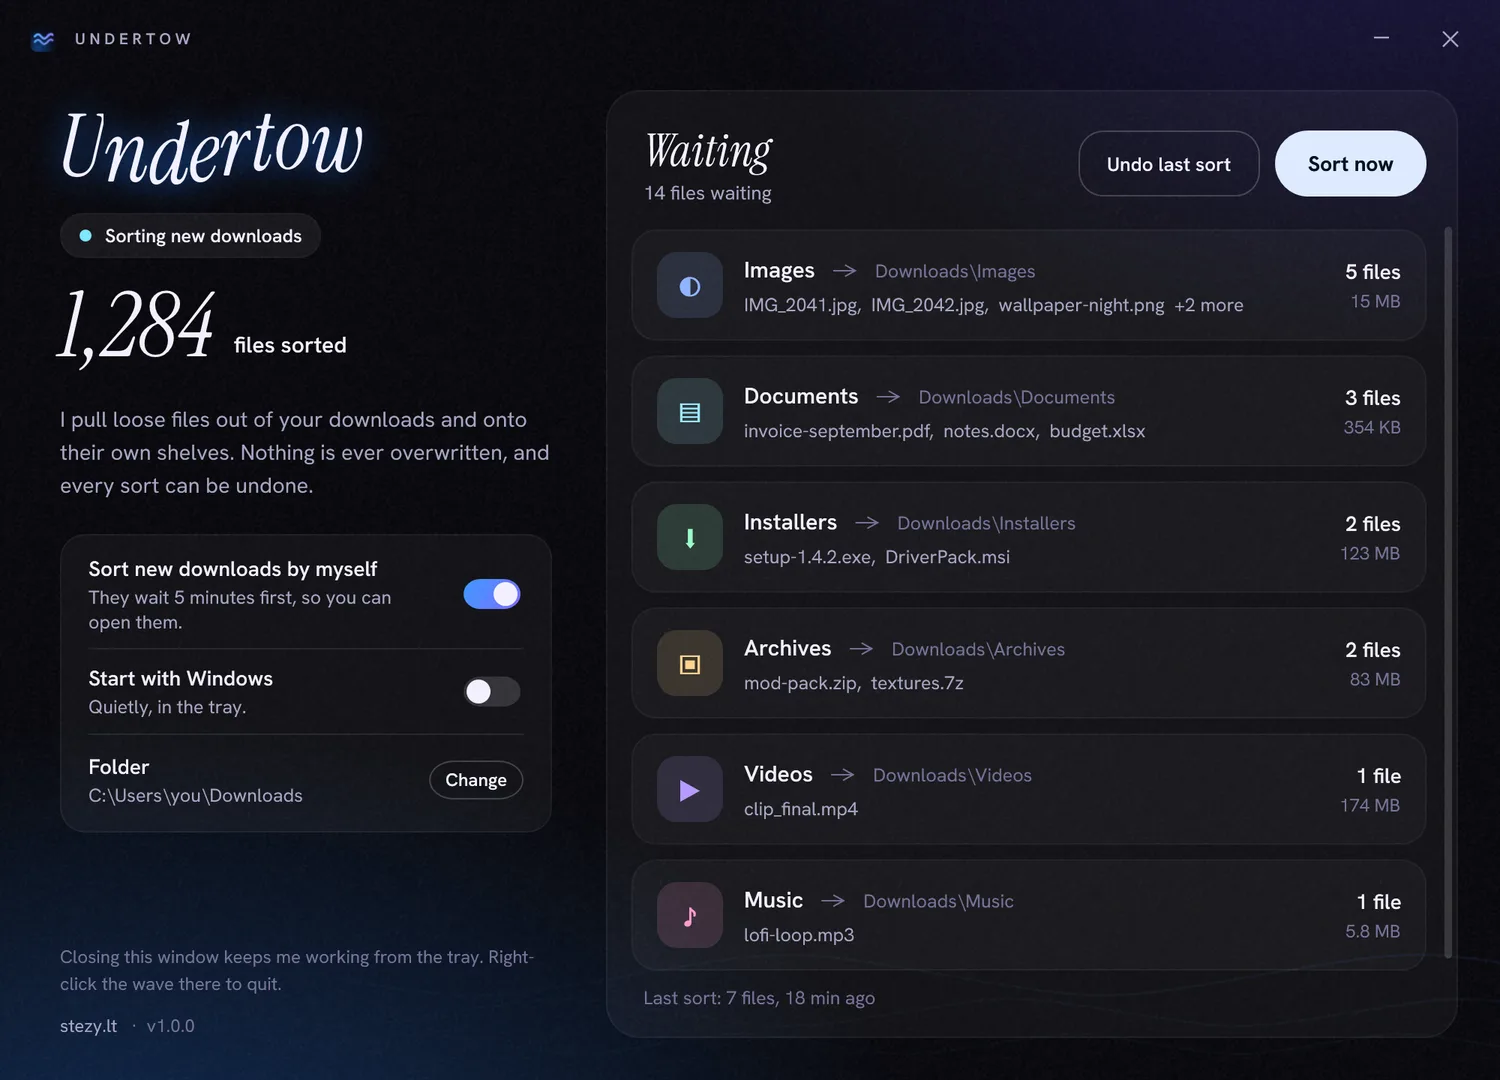
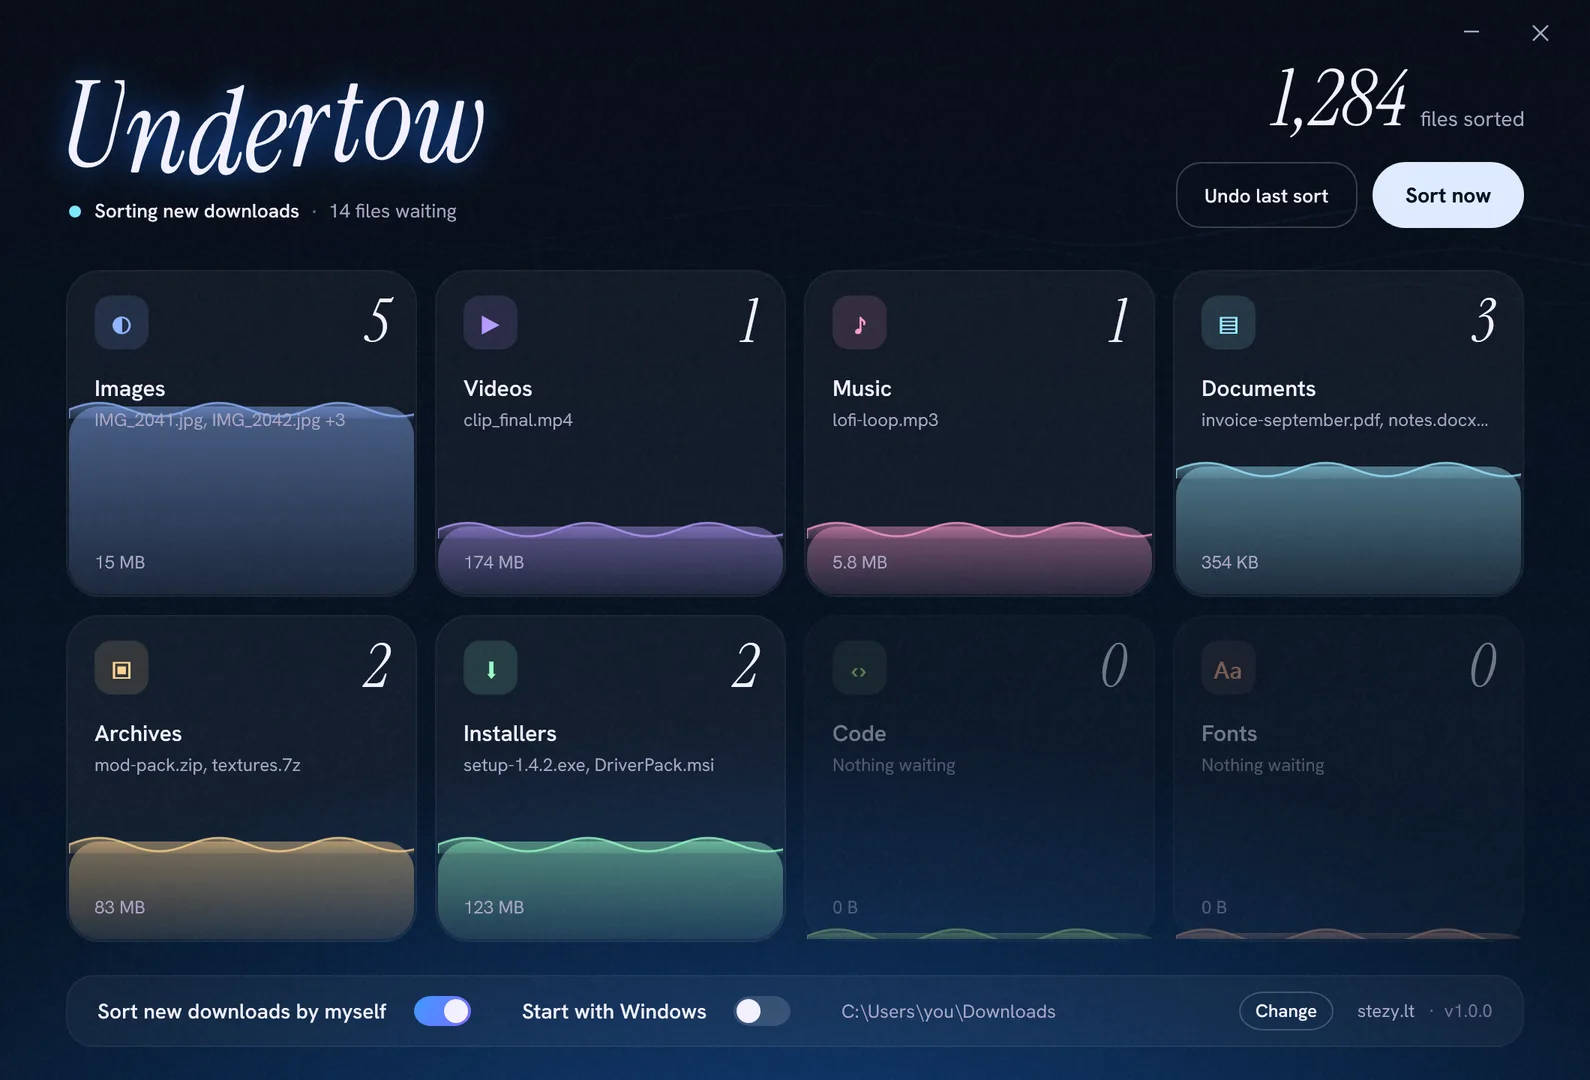
Add Veil; Undertow gets its tide-pool look

diff --git a/prototype/index.html b/prototype/index.html
@@ -30,6 +30,7 @@
 <link href="https://fonts.googleapis.com/css2?family=Pinyon+Script&text=LinkFuse&display=swap" rel="stylesheet">
 <link href="https://fonts.googleapis.com/css2?family=Syne:wght@800&text=Poltergeist&display=swap" rel="stylesheet">
 <link href="https://fonts.googleapis.com/css2?family=Instrument+Serif:ital@1&text=Undertow&display=swap" rel="stylesheet">
+<link href="https://fonts.googleapis.com/css2?family=Italiana&text=VEILVeil&display=swap" rel="stylesheet">
 <link rel="stylesheet" href="https://unpkg.com/@phosphor-icons/web@2.1.1/src/regular/style.css">
 <script src="https://unpkg.com/lenis@1.1.13/dist/lenis.min.js"></script>
 <script>
@@ -546,6 +547,22 @@
   }
   @keyframes swell { from { translate: 0 -0.025em; } to { translate: 0 0.035em; } }
 
+  /* Veil: thin, widely spaced capitals behind frosted glass */
+  .scene-veil { color: #EEEAFF; align-items: flex-end; text-align: right; --accent: #DCD2FF; }
+  .t-veil {
+    font-family: 'Italiana', serif; font-size: clamp(90px, 13vw, 250px); line-height: 1; letter-spacing: 0.2em; text-transform: uppercase; margin-right: clamp(210px, 19vw, 320px);
+    text-shadow: 0 0 0.25em rgba(190, 170, 255, 0.45);
+  }
+  /* Unveil: each letter starts frosted and out of focus, then the veil slides off it */
+  .scene.is-active .enter-unveil .ch {
+    animation: unveil 1.5s var(--ease-out) calc(0.15s + var(--i) * 160ms) both;
+  }
+  @keyframes unveil {
+    from { opacity: 0; filter: blur(0.12em); transform: translateY(-0.14em) scale(1.08); }
+    30% { opacity: 0.6; }
+    to { opacity: 1; filter: none; transform: none; }
+  }
+
   /* Static: glitch and TV noise */
   .scene-static { color: #F5F5FF; --accent: #FF7CBE; }
   @keyframes tear { 0%, 84%, 100% { opacity: 0; transform: translateY(20vh); } 86% { opacity: 0.8; transform: translateY(44vh) translateX(-2vw); } 89% { opacity: 0.6; transform: translateY(62vh) translateX(1.5vw); } 91% { opacity: 0; } }
@@ -605,6 +622,9 @@
   .cv-chrome { background: radial-gradient(38% 30% at 18% 74%, rgba(150,170,235,.38), transparent 70%), radial-gradient(30% 40% at 84% 18%, rgba(200,205,255,.2), transparent 70%), #08080D; color: #DCE3F2; }
   .cv-chrome .small { color: rgba(220,227,242,.6); }
   .art-chrome { font-family: 'Pinyon Script', cursive; font-size: 23cqi; line-height: 1.35; background: linear-gradient(180deg, #FFFFFF 0%, #DCE4F4 30%, #6B7894 50%, #EEF3FC 60%, #9AA6C0 82%, #F4F7FF 100%); -webkit-background-clip: text; background-clip: text; color: transparent; filter: drop-shadow(0 0.5cqi 1.2cqi rgba(0,0,0,.75)); }
+  .cv-veil { background: radial-gradient(60% 50% at 50% 60%, rgba(90,80,220,.4), transparent 70%), radial-gradient(45% 40% at 90% 5%, rgba(200,110,210,.3), transparent 70%), #0A0910; color: #EEEAFF; }
+  .cv-veil .small { color: rgba(238,234,255,.6); }
+  .art-veil { font-family: 'Italiana', serif; text-transform: uppercase; font-size: 18cqi; line-height: 1; letter-spacing: 0.18em; margin-right: -0.18em; text-shadow: 0 0 4cqi rgba(190,170,255,.5); }
   .cv-tide { background: radial-gradient(70% 40% at 30% 100%, rgba(30,111,217,.55), transparent 70%), radial-gradient(50% 40% at 90% 0%, rgba(75,59,196,.4), transparent 70%), #04101C; color: #E6F3FF; }
   .cv-tide .small { color: rgba(230,243,255,.6); }
   .art-tide { font-family: 'Instrument Serif', serif; font-style: italic; font-size: 21cqi; line-height: 1; background: linear-gradient(180deg, #fff 10%, #BFE3FF 46%, #3E8FE0 100%); -webkit-background-clip: text; background-clip: text; color: transparent; }
@@ -714,6 +734,8 @@
     .t-ink { font-size: 22vw; }
     .t-melt { font-size: 18vw; }
     .t-float { font-size: 12.5vw; }
+    .t-veil { margin-right: 0; font-size: 17vw; }
+    .t-tide { font-size: 22vw; }
     .t-glitch { font-size: 15vw; }
     .t-halo { font-size: 30vw; }
     .tagline { top: calc(46% + 16.5vw * 0.42 + 24px); }
@@ -856,7 +878,18 @@
       version: '0.6.0', size: '75 MB', updated: '15 Sep 2026', web: false
     },
     {
[2 lines of base64/hex data omitted]
+      title: 't-veil', layout: 'at-right', page: '#0A0910', accent: '#DCD2FF',
+      font: "'Italiana', serif", titleCss: 'letter-spacing:0.2em;',
+      blurb: 'Ctrl + Alt + V drops a calm curtain over every screen. Press it again to lift it.',
+      lede: "For streams, screen shares and the moment someone walks past your desk. One shortcut covers every monitor with a dark, quiet veil that says whatever you like (\"Be right back\" by default), and the same shortcut lifts it. Clean desktop hides your icons, swaps in a plain wallpaper and can tuck the taskbar away, then puts everything back exactly as it was, even if Veil gets closed in between.",
+      how: ["Download the zip, unzip it somewhere you'll keep it and open Veil.exe.", 'Press Ctrl + Alt + V from anywhere to draw the veil, and again to lift it.', 'Before a screen share, press Tidy my desktop. Put it all back when you are done.'],
+      shots: ['img/veil/main.webp', 'img/veil/veil.webp'],
+      version: '1.0.0', size: '0.3 MB', updated: '9 Oct 2026', web: false,
+      sparks: [[30, 24, 12, '5s', '1s'], [18, 70, 16, '4.2s', '2.6s']]
+    },
+    {
[1 lines of base64/hex data omitted]
       title: 't-tide', layout: 'at-left', page: '#04101C', accent: '#A9DCFF',
       font: "'Instrument Serif', serif", titleCss: 'font-style:italic;font-weight:400;',
       blurb: 'Pulls loose files out of your Downloads and onto their own shelves. Every sort can be undone.',
@@ -1378,7 +1411,7 @@
     const cur = { a: [150, 170, 255], b: [200, 140, 255] };
     let tgt = { a: [150, 170, 255], b: [200, 140, 255] };
 
-    const KIND = { 'schedule-steve': 'vinyl', intro: 'form', outro: 'form', 'ghost-line': 'smoke', shadow: 'ink', phantom: 'stars', linkfuse: 'bokeh', poltergeist: 'float', undertow: 'current', static: 'glitch', halo: 'halo', 'midnight-pack': 'vinyl', afterglow: 'vinyl' };
+    const KIND = { 'schedule-steve': 'vinyl', intro: 'form', outro: 'form', 'ghost-line': 'smoke', shadow: 'ink', phantom: 'stars', linkfuse: 'bokeh', poltergeist: 'float', undertow: 'current', veil: 'drape', static: 'glitch', halo: 'halo', 'midnight-pack': 'vinyl', afterglow: 'vinyl' };
     const COLORS = {
       'ghost-line': [[232, 238, 255], [150, 170, 240]],
       shadow: [[22, 8, 18], [70, 24, 52]],
@@ -1386,6 +1419,7 @@
       linkfuse: [[226, 231, 246], [140, 155, 215]],
       poltergeist: [[232, 236, 255], [150, 165, 255]],
       undertow: [[200, 232, 255], [70, 150, 240]],
+      veil: [[236, 230, 255], [190, 160, 255]],
       static: [[255, 90, 175], [90, 120, 255]],
       halo: [[220, 230, 255], [80, 120, 255]],
       'schedule-steve': [[214, 246, 205], [110, 200, 90]],
@@ -1626,6 +1660,8 @@
             case 'float': { const gust = Math.pow(Math.max(0, Math.sin(t * 0.0007)), 10) * 2.4; ax = Math.sin(t * 0.0006 + d.ph) * 0.12 + gust; ay = -0.1 - d.s * 0.25; break; }
             // Water pulling back out to sea, in slow ribbons
             case 'current': ax = -(0.3 + d.s * 0.9); ay = Math.sin(d.x * 0.008 + t * 0.0012 + d.ph) * 0.35; break;
+            // Long, slow folds of fabric settling downwards
+            case 'drape': ax = Math.sin(d.y * 0.004 + t * 0.0005 + d.ph * 0.3) * 0.18; ay = 0.12 + d.s * 0.18; break;
             case 'glitch': ax = 0.12; ay = 0; if (Math.random() < 0.004) d.x += (Math.random() - 0.5) * 60; break;
             default: ax = Math.cos(flow) * d.s * 0.6; ay = Math.sin(flow) * d.s * 0.6 - 0.03;
           }

diff --git a/prototype/p/veil/index.html b/prototype/p/veil/index.html
@@ -1,0 +1,27 @@
+<!doctype html>
+<html lang="en">
+<head>
+<meta charset="utf-8">
+<meta name="viewport" content="width=device-width, initial-scale=1">
+<title>Veil by STEZY</title>
+<meta name="description" content="Ctrl + Alt + V drops a calm curtain over every screen. Press it again to lift it.">
+<link rel="canonical" href="https://stezy.lt/#veil">
+<meta name="theme-color" content="#0A0910">
+<meta property="og:type" content="website">
+<meta property="og:site_name" content="STEZY">
+<meta property="og:title" content="Veil">
+<meta property="og:description" content="Ctrl + Alt + V drops a calm curtain over every screen. Press it again to lift it.">
+<meta property="og:url" content="https://stezy.lt/p/veil/">
+<meta property="og:image" content="https://stezy.lt/img/share/veil.jpg">
+<meta property="og:image:width" content="1200">
+<meta property="og:image:height" content="630">
+<meta property="og:image:alt" content="Veil, a app by STEZY">
+<meta name="twitter:card" content="summary_large_image">
+<link rel="icon" type="image/svg+xml" href="/favicon.svg">
+<script type="application/ld+json">{"@context": "https://schema.org", "@type": "SoftwareApplication", "name": "Veil", "description": "Ctrl + Alt + V drops a calm curtain over every screen. Press it again to lift it.", "operatingSystem": "Windows", "image": "https://stezy.lt/img/share/veil.jpg", "url": "https://stezy.lt/#veil", "applicationCategory": "UtilitiesApplication", "author": {"@type": "Person", "name": "STEZY", "url": "https://stezy.lt/"}, "offers": {"@type": "Offer", "price": "0", "priceCurrency": "EUR"}}</script>
+<meta http-equiv="refresh" content="0; url=/#veil">
+<script>location.replace('/#veil');</script>
+<style>body{margin:0;min-height:100vh;display:grid;place-items:center;background:#050509;color:#a9a6c4;font:16px system-ui,sans-serif}a{color:#f2f0ff}</style>
+</head>
+<body><p>Opening <a href="/#veil">Veil</a> on stezy.lt...</p></body>
+</html>
